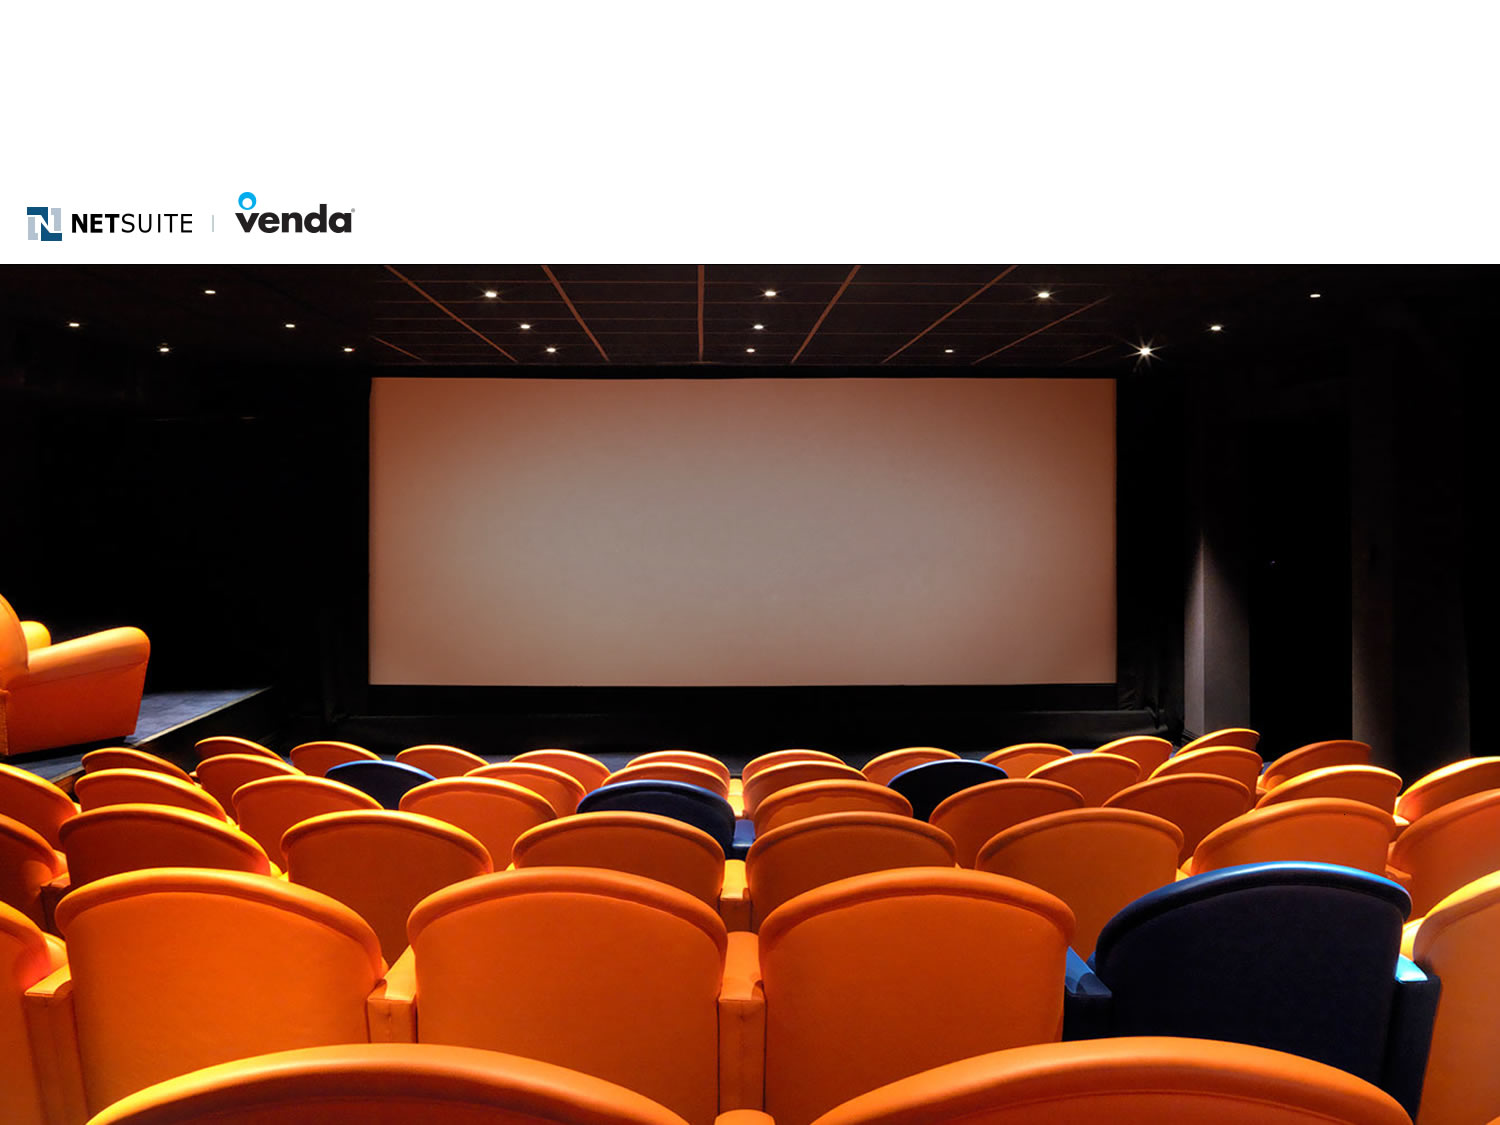
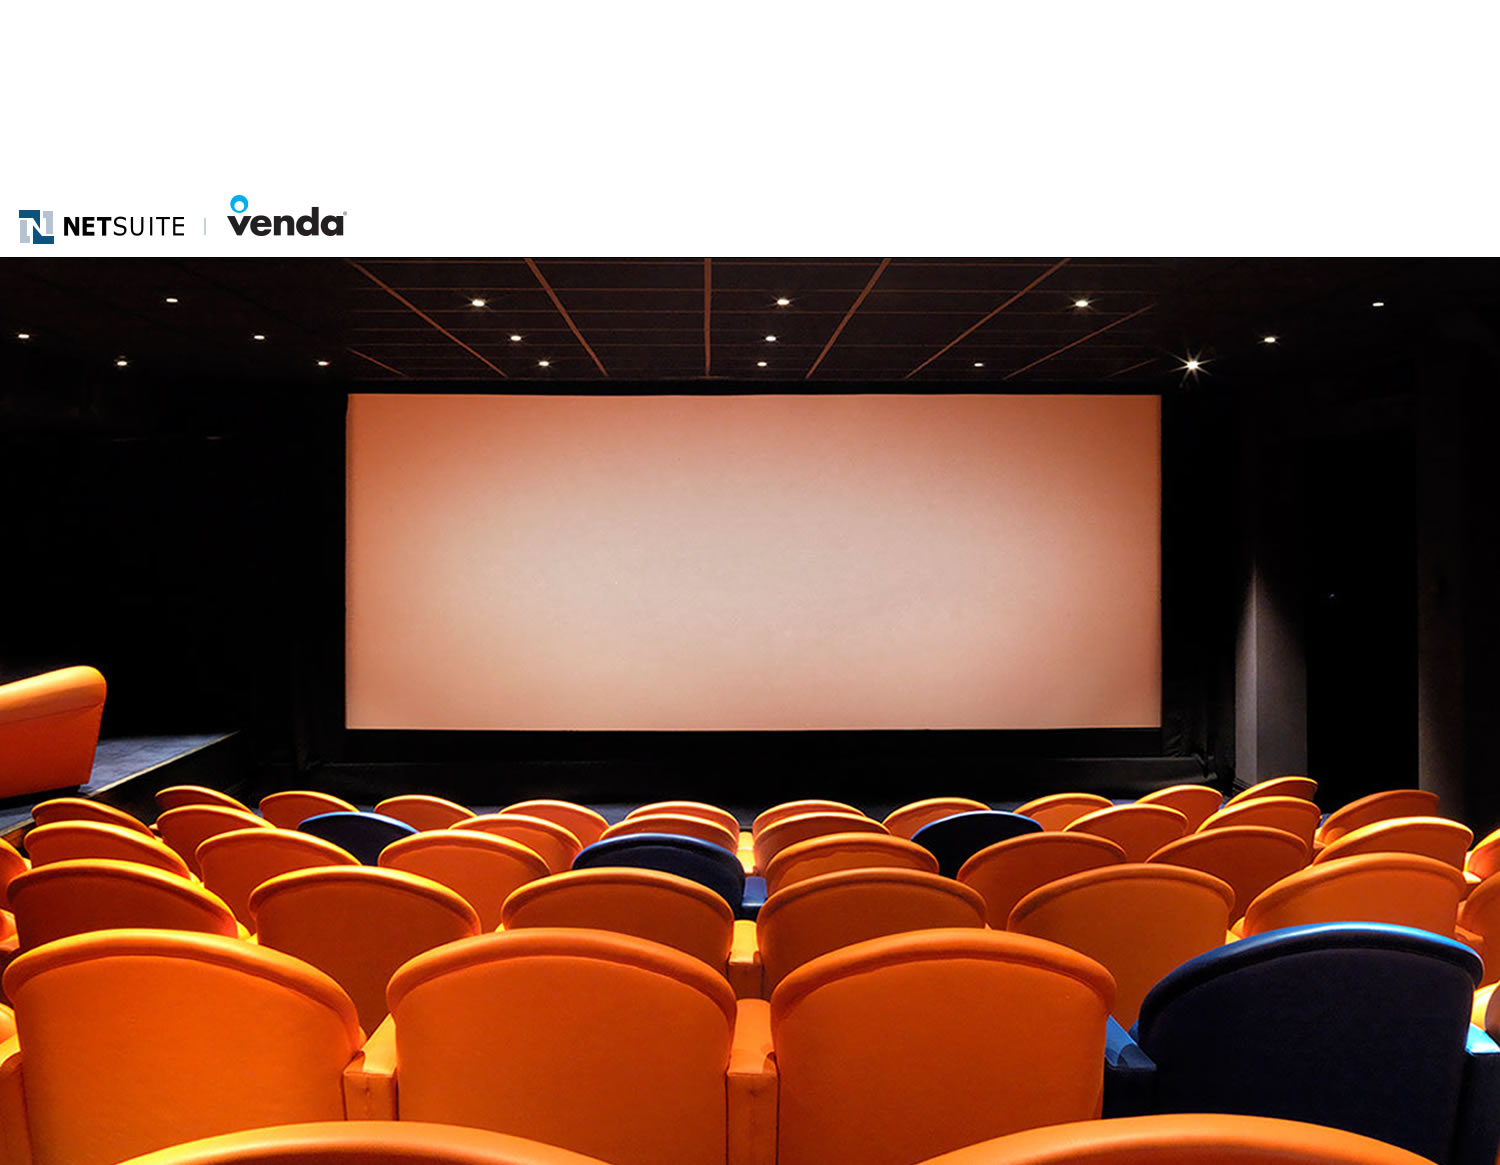
Increased BG images size

diff --git a/css/theme/venda.css b/css/theme/venda.css
@@ -16,7 +16,11 @@ body {
 
 }
 
-.main-header, .reveal .main-header h1, .reveal .main-header  h2, .reveal .main-header h3 {
+.reveal .main-header, .reveal .main-header h1, .reveal .main-header  h2, .reveal .main-header h3 {
    text-shadow: 1px 1px 1px rgba(0, 0, 0, 0.27);
-   width: 99%;
+}
+
+.reveal .main-header {
+  width: 74%;
+  margin-left: 13s%;
 }
